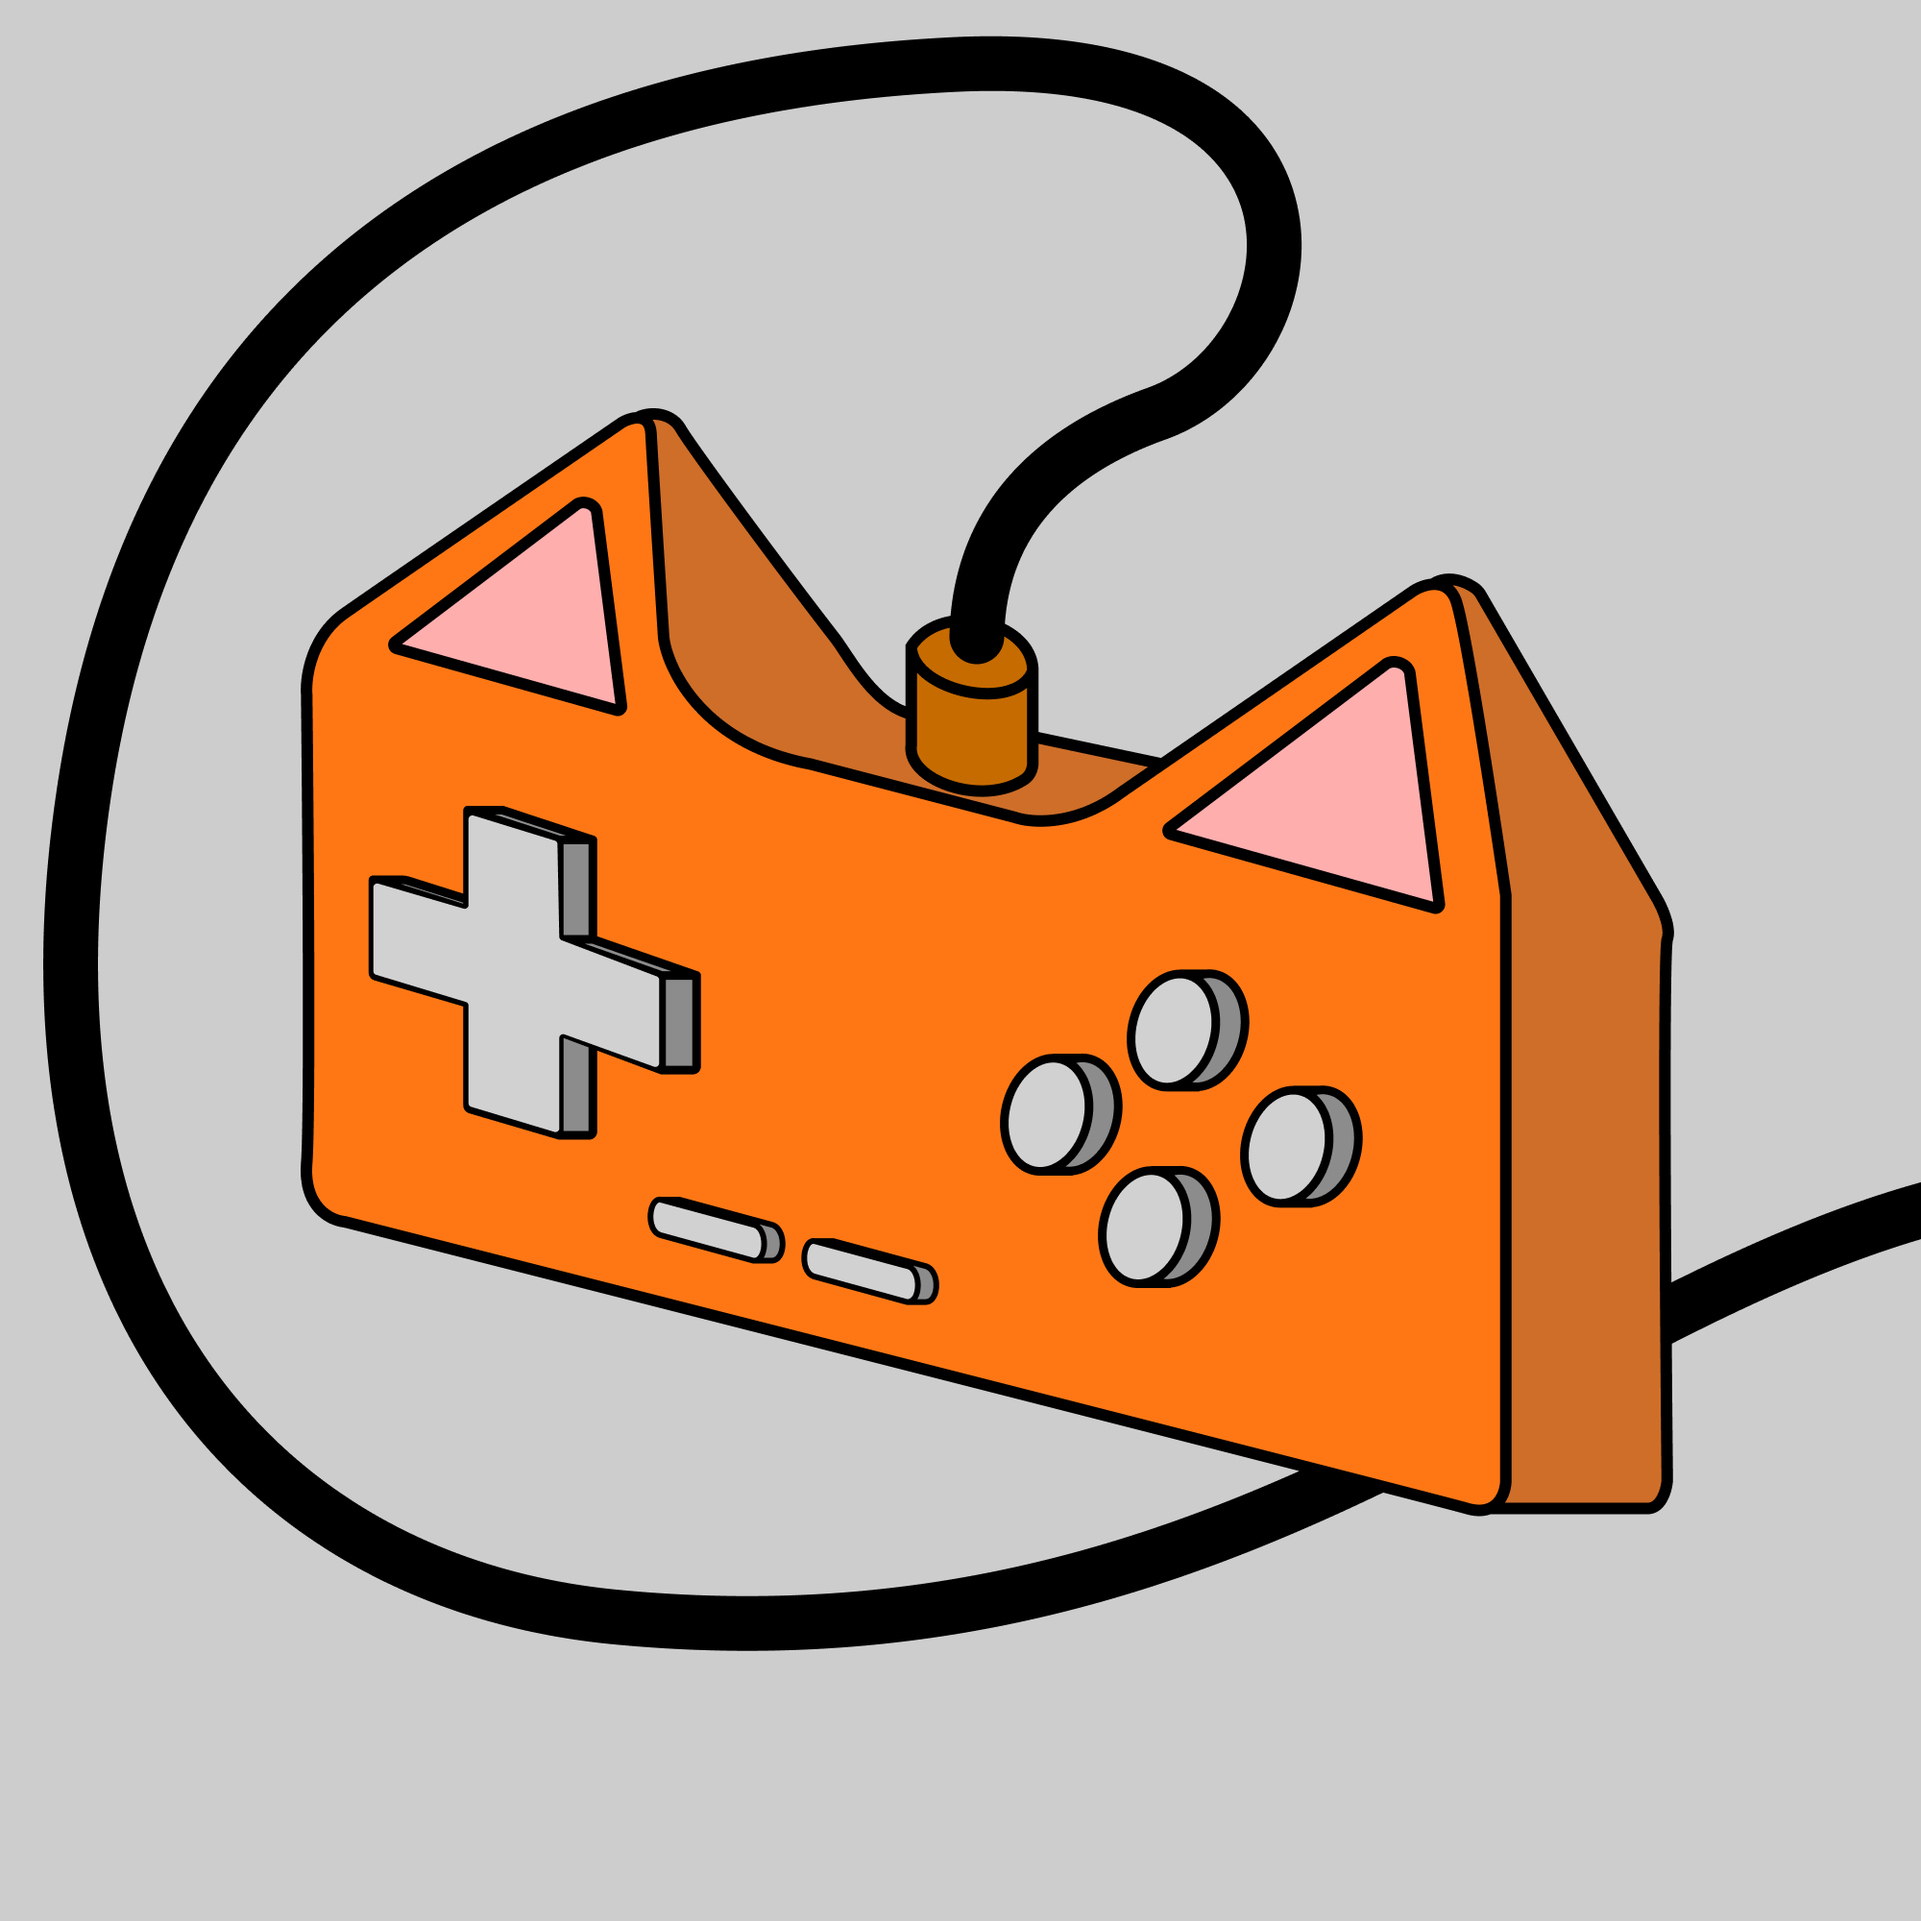
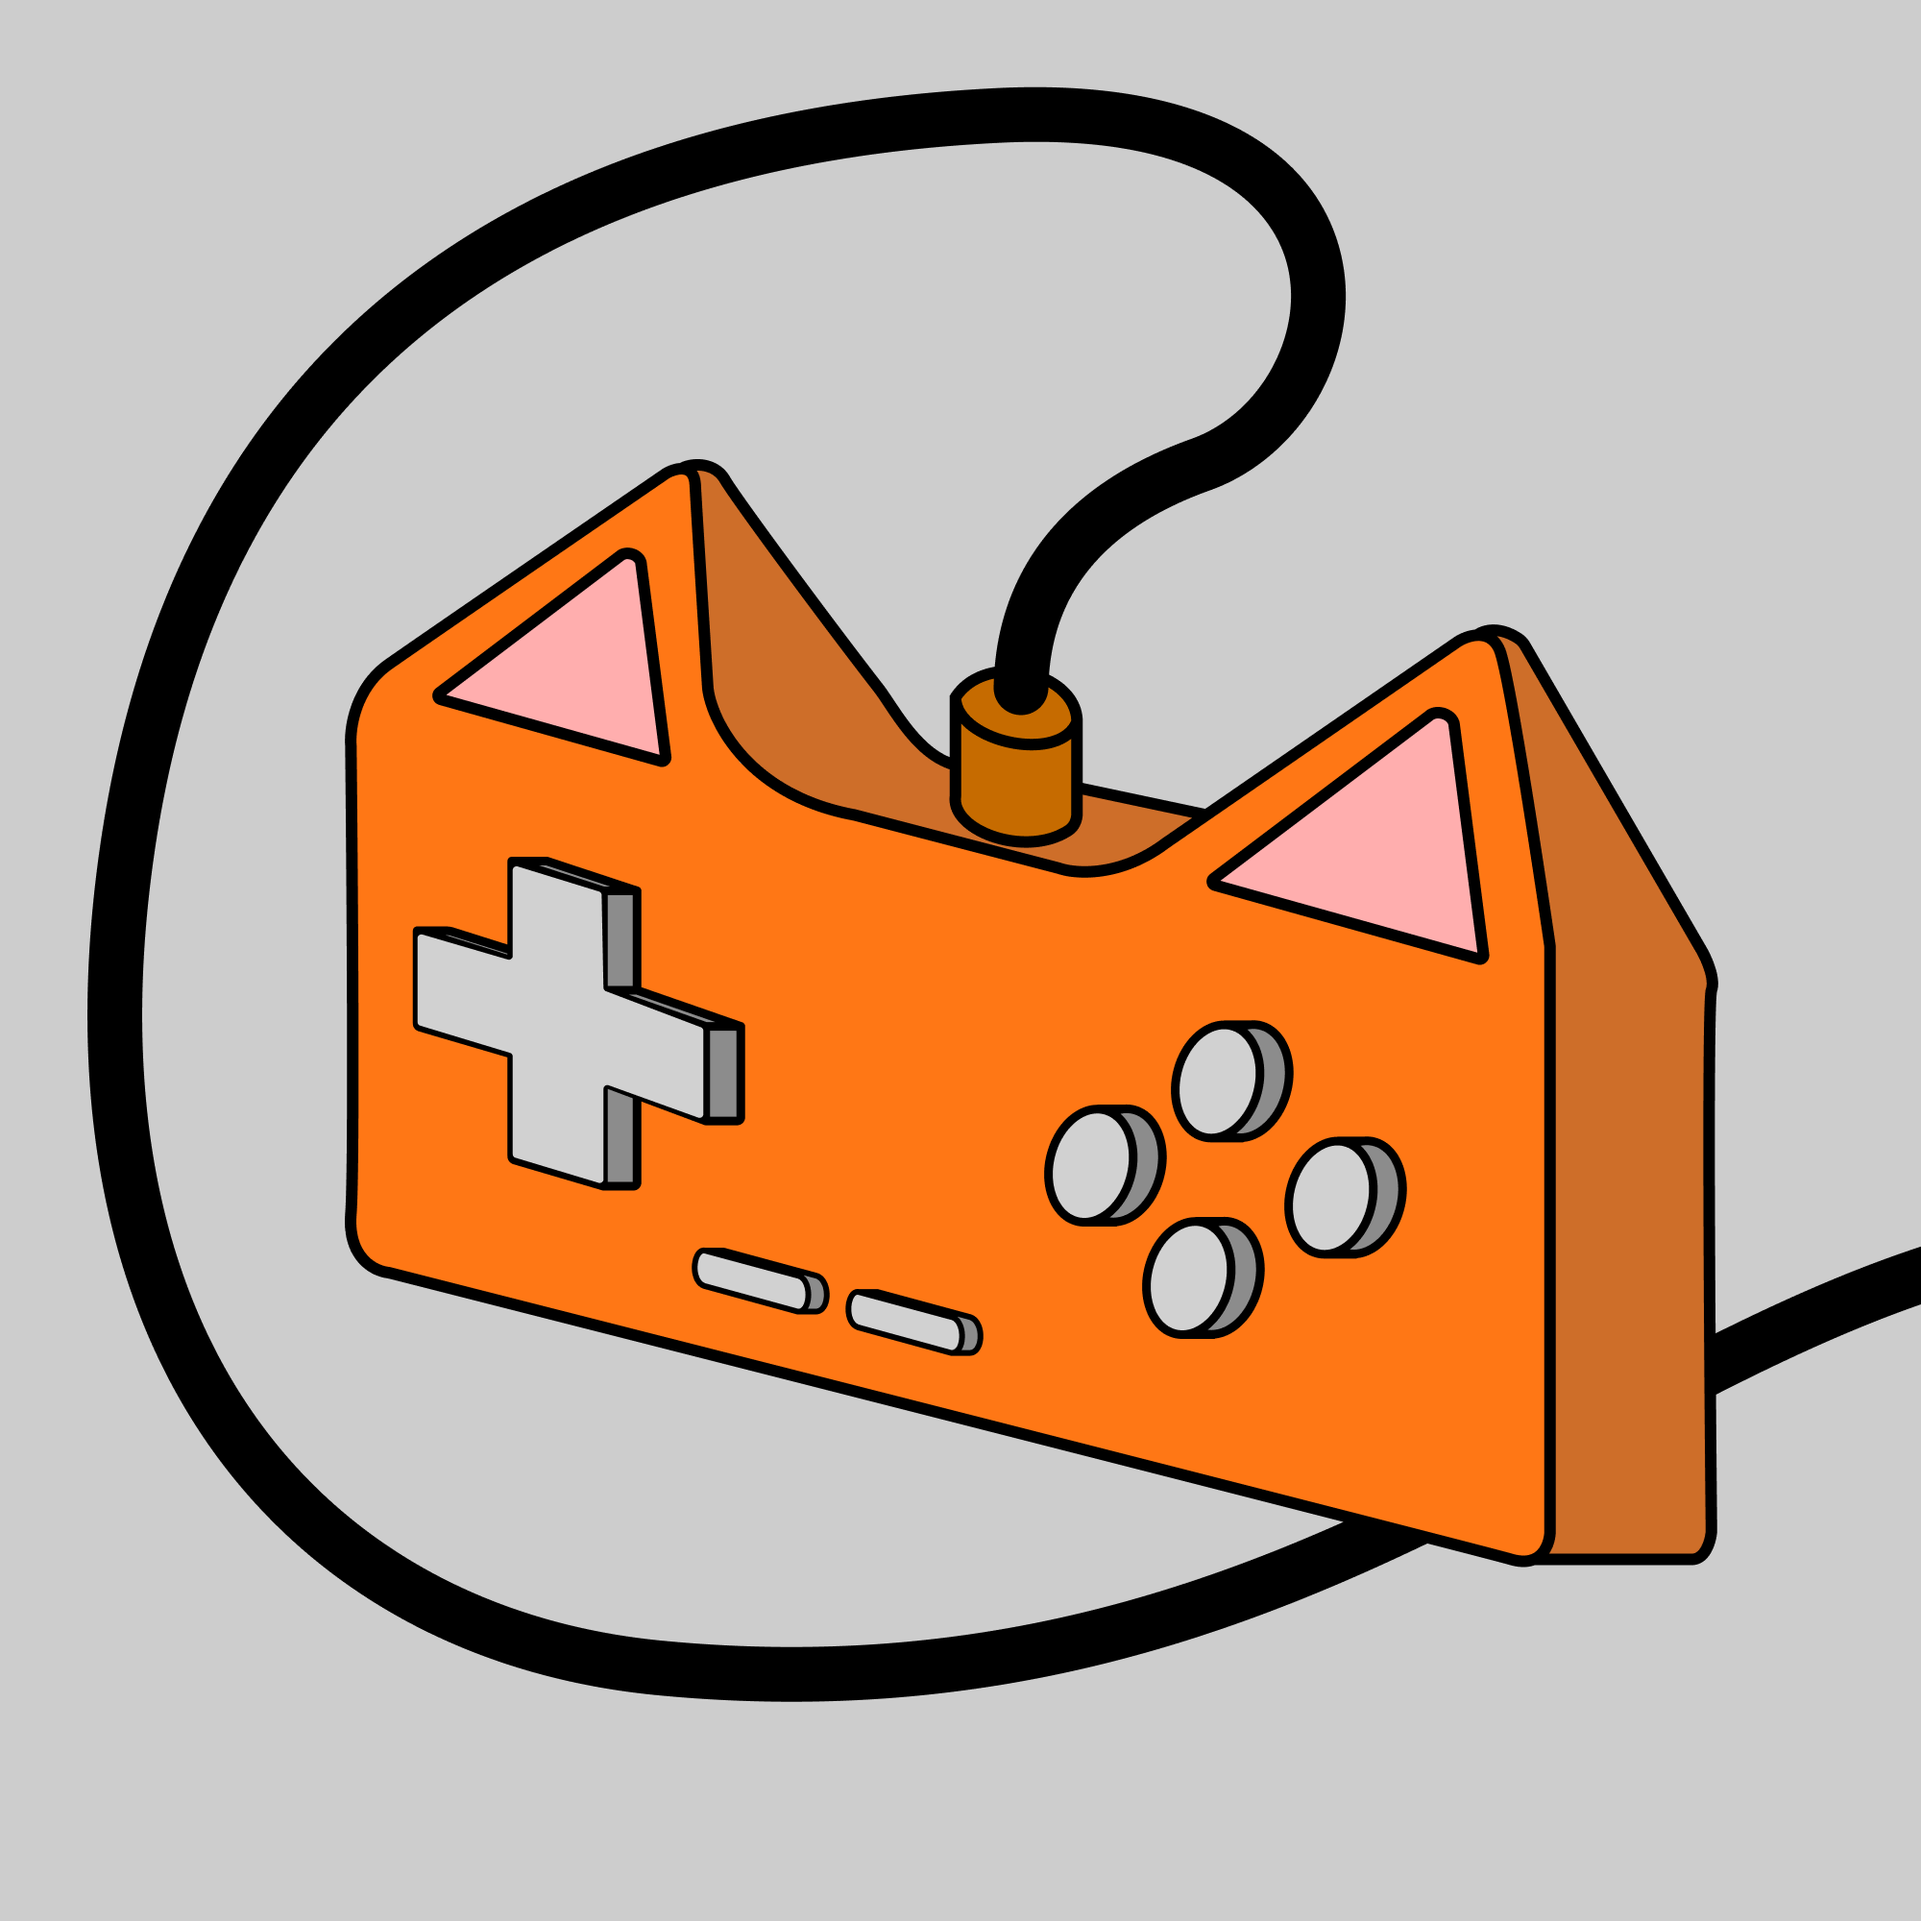
cadrage

Changed region(s): [[0.0, 0.0, 1.0, 0.899], [0.496, 0.496, 0.744, 0.713], [0.403, 0.279, 0.434, 0.341]]

diff --git a/style.css b/style.css
@@ -7,7 +7,7 @@
 }
 body{
     background-image: url(./image/wallkri.png);
-    background-size: 100%;
+    background-size: 90%;
 }
 .bloc{
     background-color: rgba(255, 205, 205, 0.542);
